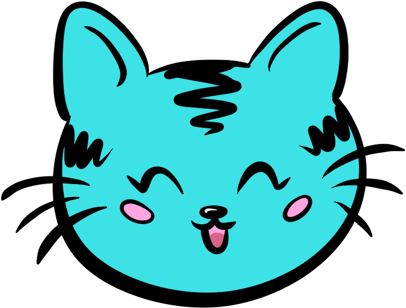
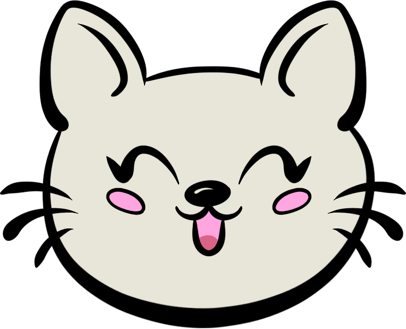
changing assets

diff --git a/index.html b/index.html
@@ -29,7 +29,7 @@
 	</div>
 
 	<section id="menu-screen" class="screen menu" hidden>
-		<img class="mascot" src="art/mascot.png" alt="A grinning teal cat" width="810" height="615">
+		<img class="mascot" src="art/mascot.png" alt="A grinning cat" width="810" height="656">
 		<h1>Nine Lives</h1>
 		<p class="subtitle">One cat per row, column and colour. No touching.</p>
 		<button id="play-button" type="button" class="primary">Play level 1</button>
@@ -82,7 +82,7 @@
 
 		<div id="result-panel" class="overlay" hidden>
 			<div class="card">
-				<img class="mascot" src="art/mascot.png" alt="" width="810" height="615">
+				<img class="mascot" src="art/mascot.png" alt="" width="810" height="656">
 				<h2 id="result-title">Level done</h2>
 				<p id="result-detail"></p>
 				<button id="again-button" type="button" class="primary">Next level</button>

diff --git a/sw.js b/sw.js
@@ -17,7 +17,7 @@
  * Content -- the art, the icons, the level bank -- is served cache-first. It is
  * the bulk of the bytes and it only changes when its filename does.
  */
-const CACHE = "nine-lives-v2";
+const CACHE = "nine-lives-v3";
 
 /** Files whose freshness matters more than the round trip to check it. */
 const CODE = /\.(?:html|js|css|webmanifest)$/;
